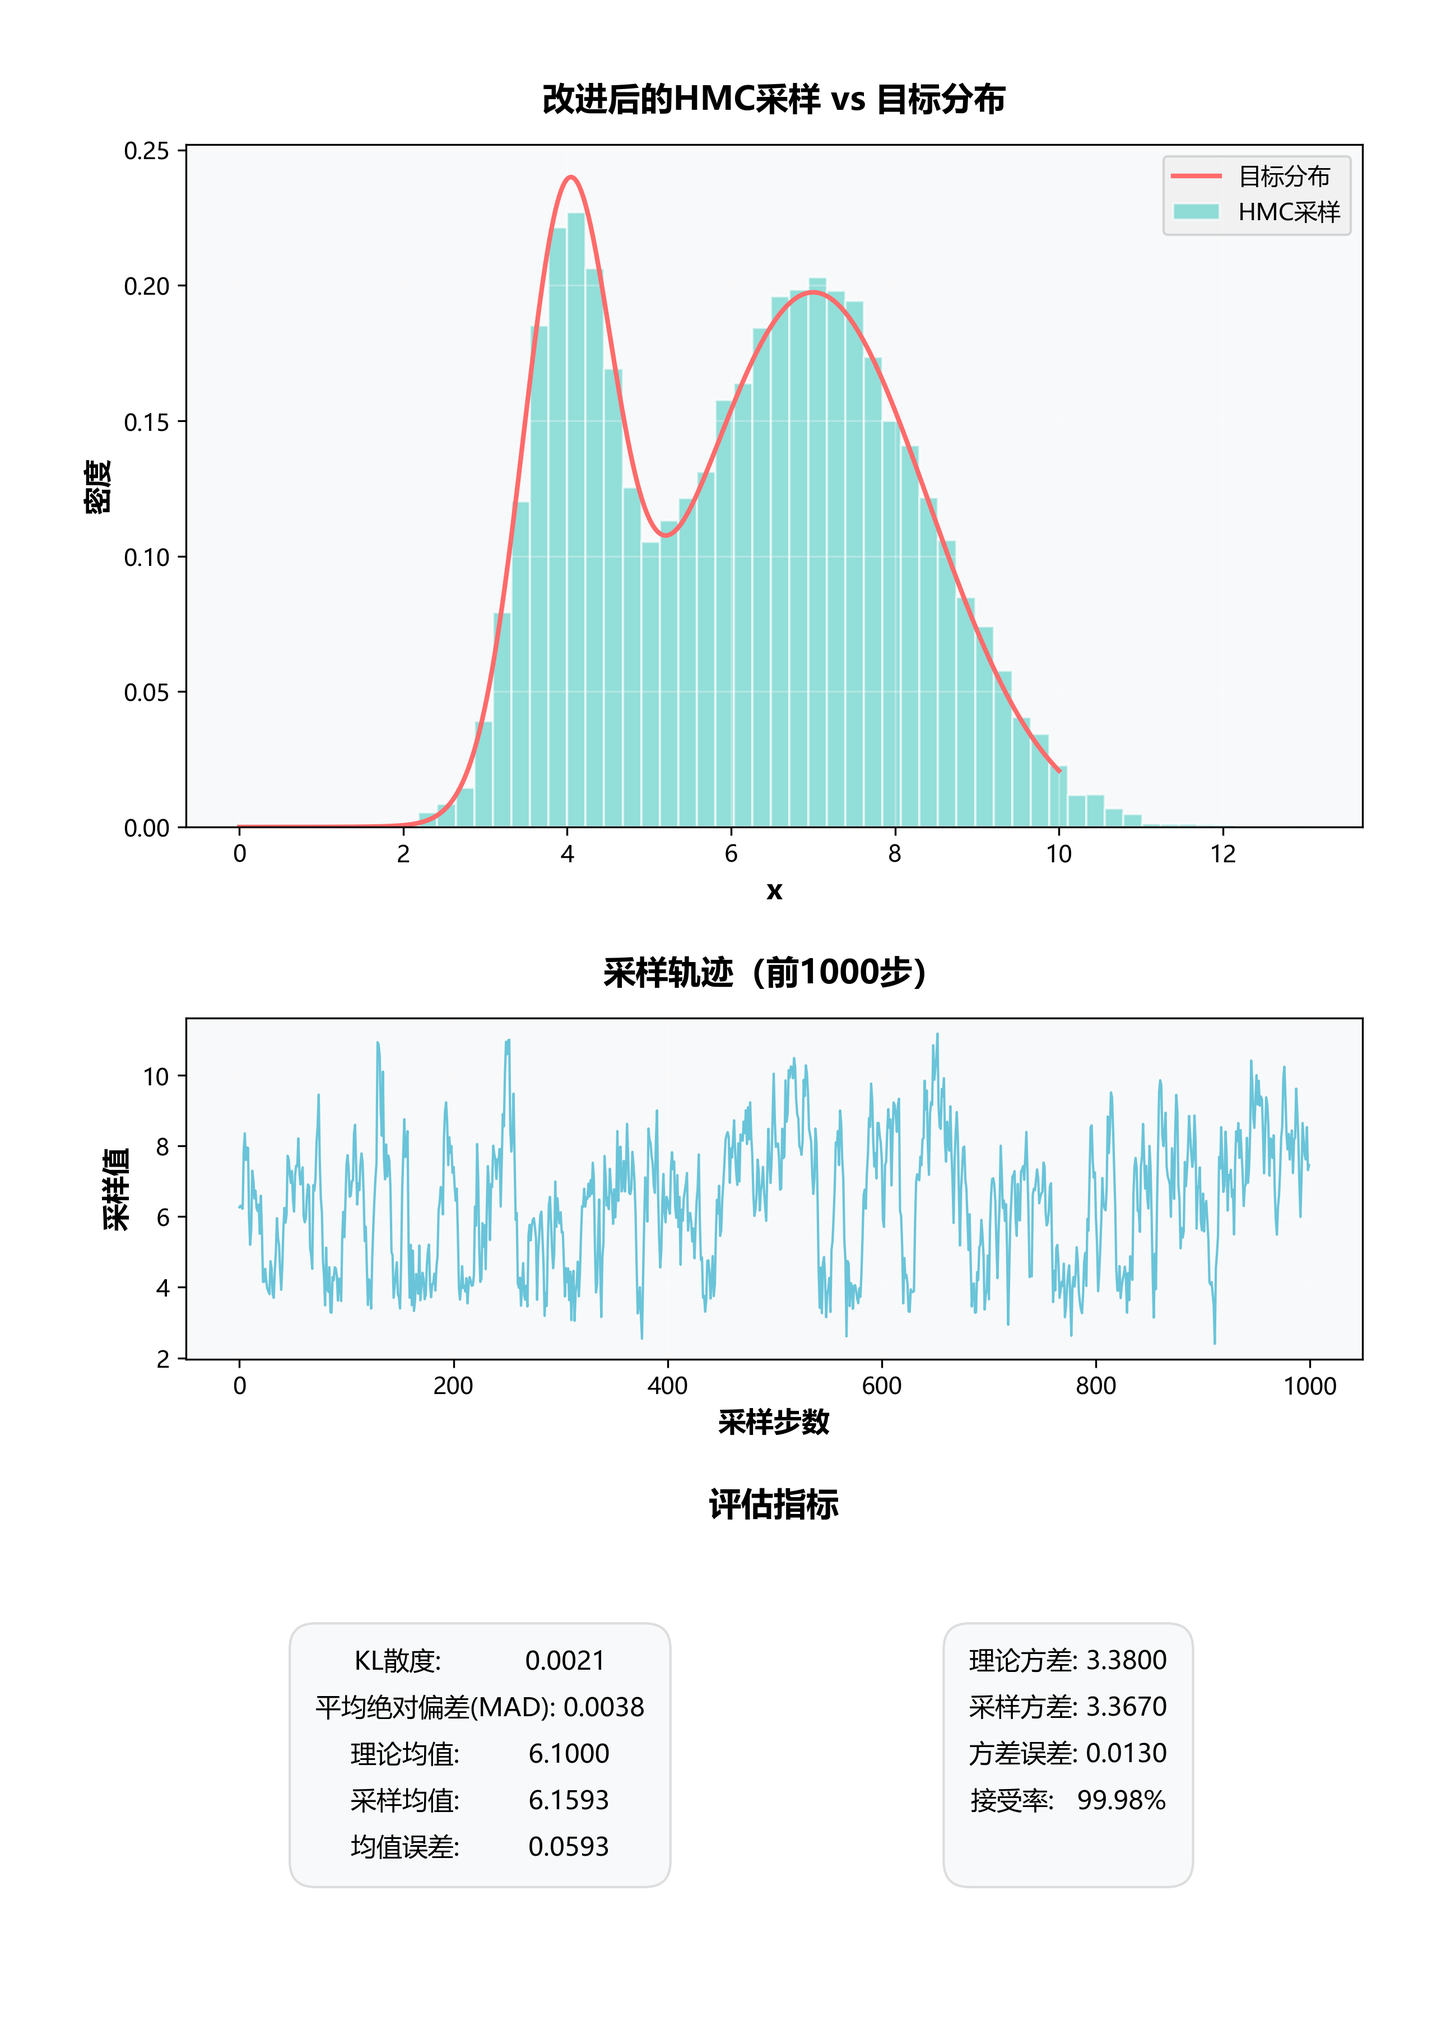
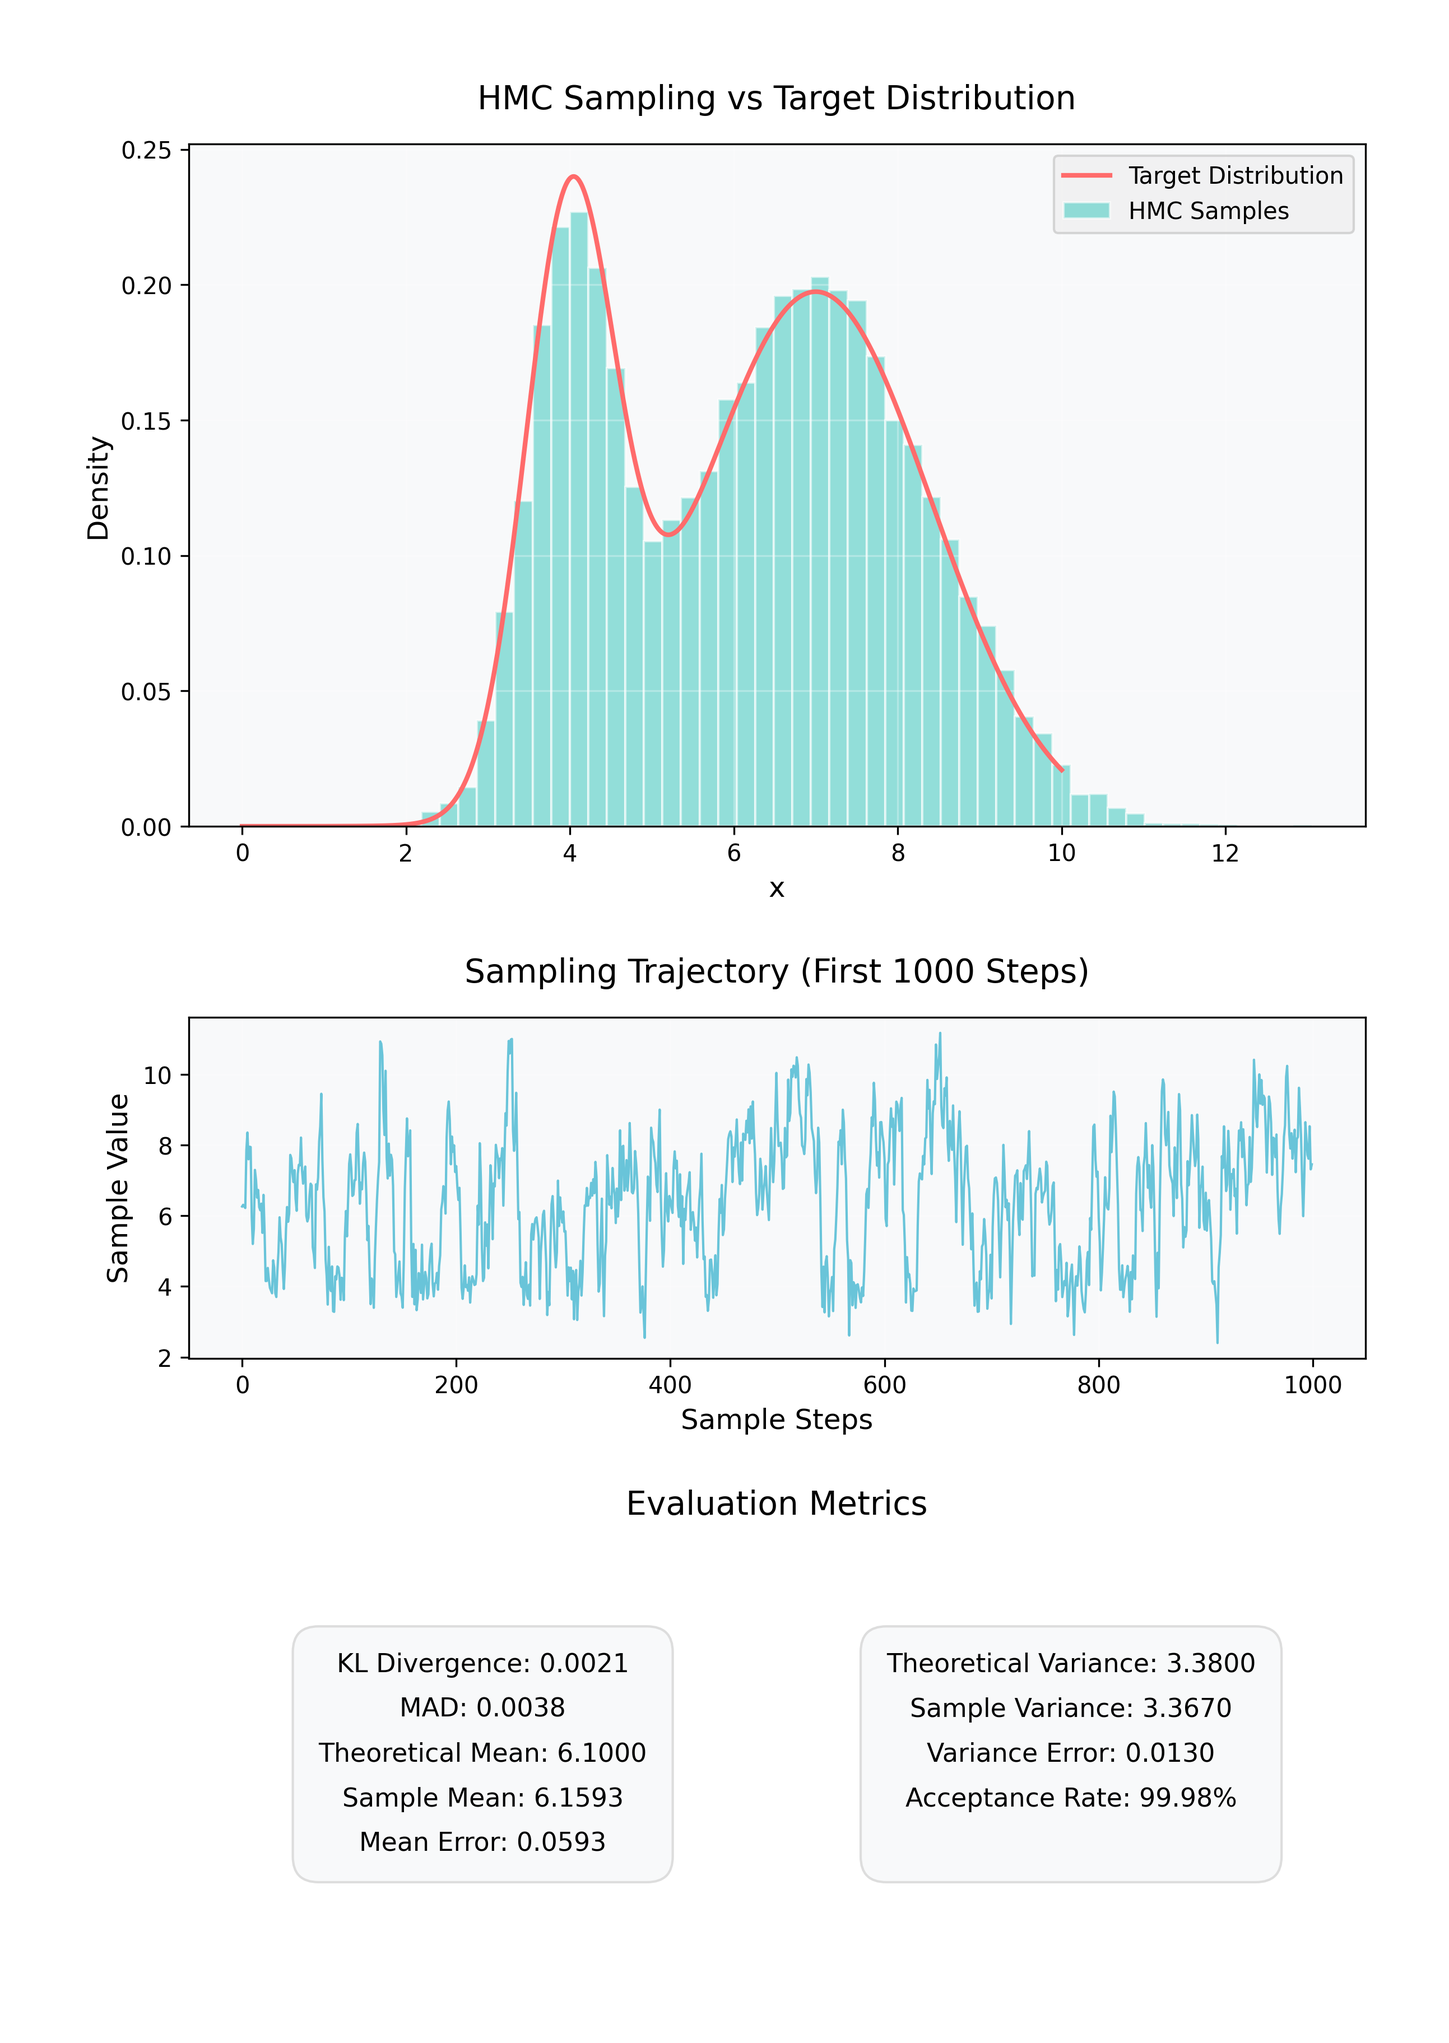
docs: 更新实验报告，完善消融实验分析和未来展望 - 添加详细的消融实验结果分析 - 更新可视化结果说明 - 重构相关讨论部分，避免重复 - 添加算法特性分析和未来改进方向

diff --git a/HMC-sampling.py b/HMC-sampling.py
@@ -1,21 +1,28 @@
 import numpy as np
 from scipy.stats import norm, entropy
 import matplotlib.pyplot as plt
+import matplotlib.font_manager as fm
 
 # 设置中文字体
 try:
-    plt.rcParams['font.sans-serif'] = ['Microsoft YaHei']  # 微软雅黑
+    # 尝试使用系统自带的中文字体
+    plt.rcParams['font.sans-serif'] = ['SimHei', 'DejaVu Sans', 'Arial Unicode MS']  
     plt.rcParams['axes.unicode_minus'] = False  # 解决负号显示问题
 except:
-    print("未找到 Microsoft YaHei 字体，尝试其他中文字体")
-    # 备选方案
-    chinese_fonts = ['SimHei', 'KaiTi', 'FangSong', 'SimSun', 'NSimSun', 'STXihei']
-    for font in chinese_fonts:
-        try:
-            plt.rcParams['font.sans-serif'] = [font]
-            break
-        except:
-            continue
+    print("警告：未找到合适的中文字体，图像中的中文可能无法正确显示")
+    # 使用默认字体
+    plt.rcParams['font.sans-serif'] = ['DejaVu Sans']
+
+# 在创建图形之前添加字体检查
+def check_chinese_font():
+    """检查是否存在可用的中文字体"""
+    chinese_fonts = []
+    for f in fm.fontManager.ttflist:
+        if 'SimHei' in f.name or 'SimSun' in f.name or 'Microsoft YaHei' in f.name:
+            chinese_fonts.append(f.name)
+    return len(chinese_fonts) > 0
+
+has_chinese_font = check_chinese_font()
 
 # 保持原有的混合高斯分布参数
 weights = [0.3, 0.7]
@@ -107,6 +114,75 @@ def calculate_metrics(samples, x_vals, target_vals):
         'var_error': abs(theoretical_var - sample_var)
     }
 
+def hmc_with_ablation(n_samples, epsilon_values, L_values, init_positions, burn_in=1000):
+    """
+    进行消融实验，测试不同的步长、Leapfrog步数和初始位置。
+    """
+    results = []
+    total_combinations = len(epsilon_values) * len(L_values) * len(init_positions)
+    current_combination = 0
+    
+    for epsilon in epsilon_values:
+        for L in L_values:
+            for init_position in init_positions:
+                current_combination += 1
+                print(f"\r进度: {current_combination}/{total_combinations} "
+                      f"(epsilon={epsilon}, L={L}, init_position={init_position})", 
+                      end="", flush=True)
+                
+                samples, acceptance_rate = hamiltonian_monte_carlo(
+                    n_samples=n_samples + burn_in,
+                    epsilon=epsilon,
+                    L=L,
+                    init_position=init_position
+                )
+                samples = samples[burn_in:]  # 丢弃burn-in期样本
+                metrics = calculate_metrics(samples, x_vals, target_vals)
+                results.append({
+                    'epsilon': epsilon,
+                    'L': L,
+                    'init_position': init_position,
+                    'acceptance_rate': acceptance_rate,
+                    'metrics': metrics
+                })
+    print("\n消融实验完成！")
+    return results
+
+# 减少参数组合数量，使用更少的值进行测试
+epsilon_values = [0.01, 0.05]  # 减少步长选项
+L_values = [10, 20]           # 减少Leapfrog步数选项
+init_positions = [4, 5.5]     # 减少初始位置选项
+
+# 减少采样数量
+n_samples_ablation = 5000     # 消融实验使用较少的采样数
+
+# 计算目标分布
+x_vals = np.linspace(0, 10, 1000)
+target_vals = weights[0] * norm.pdf(x_vals, means[0], np.sqrt(variances[0])) + \
+             weights[1] * norm.pdf(x_vals, means[1], np.sqrt(variances[1]))
+
+# 进行消融实验
+print("开始消融实验...")
+ablation_results = hmc_with_ablation(
+    n_samples=n_samples_ablation,
+    epsilon_values=epsilon_values,
+    L_values=L_values,
+    init_positions=init_positions,
+    burn_in=500  # 减少burn-in期
+)
+
+# 打印消融实验结果
+print("\n消融实验结果:")
+for result in ablation_results:
+    print(f"\n步长: {result['epsilon']}, Leapfrog步数: {result['L']}, "
+          f"初始位置: {result['init_position']}")
+    print(f"接受率: {result['acceptance_rate']:.2%}")
+    print(f"KL散度: {result['metrics']['kl_divergence']:.4f}, "
+          f"MAD: {result['metrics']['mad']:.4f}")
+    print(f"均值误差: {result['metrics']['mean_error']:.4f}, "
+          f"方差误差: {result['metrics']['var_error']:.4f}")
+    print("-" * 50)
+
 # 设置随机种子以确保可重复性
 np.random.seed(42)
 
@@ -120,11 +196,6 @@ hmc_samples, acceptance_rate = hamiltonian_monte_carlo(
     L=20,          # 增加leapfrog步数以better探索
     init_position=5.5  # 初始位置接近理论均值
 )
-
-# 计算目标分布
-x_vals = np.linspace(0, 10, 1000)
-target_vals = weights[0] * norm.pdf(x_vals, means[0], np.sqrt(variances[0])) + \
-             weights[1] * norm.pdf(x_vals, means[1], np.sqrt(variances[1]))
 
 # 计算评估指标
 metrics = calculate_metrics(hmc_samples, x_vals, target_vals)
@@ -142,12 +213,12 @@ gs = plt.GridSpec(3, 1, height_ratios=[2, 1, 1.2], hspace=0.4)
 
 # 第一个子图：分布对比
 ax1 = fig.add_subplot(gs[0])
-ax1.plot(x_vals, target_vals, color='#FF6B6B', label='目标分布', linewidth=2)
-ax1.hist(hmc_samples, bins=50, density=True, alpha=0.6, label='HMC采样', 
+ax1.plot(x_vals, target_vals, color='#FF6B6B', label='Target Distribution', linewidth=2)
+ax1.hist(hmc_samples, bins=50, density=True, alpha=0.6, label='HMC Samples', 
          color='#4ECDC4', edgecolor='white')
-ax1.set_xlabel('x', fontsize=12, fontweight='bold')
-ax1.set_ylabel('密度', fontsize=12, fontweight='bold')
-ax1.set_title('改进后的HMC采样 vs 目标分布', fontsize=14, pad=15, fontweight='bold')
+ax1.set_xlabel('x', fontsize=12)
+ax1.set_ylabel('Density', fontsize=12)
+ax1.set_title('HMC Sampling vs Target Distribution', fontsize=14, pad=15)
 ax1.legend(fontsize=10, framealpha=0.8)
 ax1.grid(True, alpha=0.3, color='white')
 ax1.set_facecolor('#f8f9fa')
@@ -155,30 +226,30 @@ ax1.set_facecolor('#f8f9fa')
 # 第二个子图：采样轨迹
 ax2 = fig.add_subplot(gs[1])
 ax2.plot(np.arange(1000), hmc_samples[:1000], color='#45B7D1', alpha=0.8, linewidth=1)
-ax2.set_xlabel('采样步数', fontsize=12, fontweight='bold')
-ax2.set_ylabel('采样值', fontsize=12, fontweight='bold')
-ax2.set_title('采样轨迹（前1000步）', fontsize=14, pad=15, fontweight='bold')
+ax2.set_xlabel('Sample Steps', fontsize=12)
+ax2.set_ylabel('Sample Value', fontsize=12)
+ax2.set_title('Sampling Trajectory (First 1000 Steps)', fontsize=14, pad=15)
 ax2.grid(True, alpha=0.3, color='white')
 ax2.set_facecolor('#f8f9fa')
 
 # 第三个子图：评估指标
 ax3 = fig.add_subplot(gs[2])
-ax3.set_title('评估指标', fontsize=14, pad=15, fontweight='bold')
+ax3.set_title('Evaluation Metrics', fontsize=14, pad=15)
 
-# 将评估指标分为左右两列
+# 评估指标文本
 left_metrics = (
-    f"KL散度:           {metrics['kl_divergence']:.4f}\n"
-    f"平均绝对偏差(MAD): {metrics['mad']:.4f}\n"
-    f"理论均值:         {metrics['theoretical_mean']:.4f}\n"
-    f"采样均值:         {metrics['sample_mean']:.4f}\n"
-    f"均值误差:         {metrics['mean_error']:.4f}"
+    f"KL Divergence: {metrics['kl_divergence']:.4f}\n"
+    f"MAD: {metrics['mad']:.4f}\n"
+    f"Theoretical Mean: {metrics['theoretical_mean']:.4f}\n"
+    f"Sample Mean: {metrics['sample_mean']:.4f}\n"
+    f"Mean Error: {metrics['mean_error']:.4f}"
 )
 
 right_metrics = (
-    f"理论方差: {metrics['theoretical_var']:.4f}\n"
-    f"采样方差: {metrics['sample_var']:.4f}\n"
-    f"方差误差: {metrics['var_error']:.4f}\n"
-    f"接受率:   {acceptance_rate:.2%}\n"
+    f"Theoretical Variance: {metrics['theoretical_var']:.4f}\n"
+    f"Sample Variance: {metrics['sample_var']:.4f}\n"
+    f"Variance Error: {metrics['var_error']:.4f}\n"
+    f"Acceptance Rate: {acceptance_rate:.2%}\n"
 )
 
 # 创建左侧文本框
@@ -187,7 +258,6 @@ left_box = ax3.text(
     left_metrics,
     transform=ax3.transAxes,
     fontsize=11,
-    family='Microsoft YaHei',
     ha='center',
     va='center',
     bbox=dict(
@@ -205,7 +275,6 @@ right_box = ax3.text(
     right_metrics,
     transform=ax3.transAxes,
     fontsize=11,
-    family='Microsoft YaHei',
     ha='center',
     va='center',
     bbox=dict(

diff --git a/README.md b/README.md
@@ -24,48 +24,86 @@ $$
 4. 计算新系统哈密顿量，进行 Metropolis 接受-拒绝步骤。
 
 ## 3. 测试实验设置及其结果
-- 采样总数：n = 20000，较多的采样量有助于估计出准确的分布特征。
-- 随机种子：使用 `np.random.seed(42)` 保证可复现性。
-- 评估指标：
-  - KL 散度 (Kullback-Leibler Divergence)  
-    用来衡量采样得到的经验分布与目标混合高斯分布之间的差异。
-  - 平均绝对偏差 (MAD, Mean Absolute Deviation)  
-    以直方图形式同目标分布进行对比时，每个 bin 与目标分布差的平均绝对值。
-  - 理论均值 vs. 采样均值，以及绝对误差。
-  - 理论方差 vs. 采样方差，以及绝对误差。
-  - 接受率 (Acceptance Rate)。
 
-运行后的可视化结果如下图所示：
+### 3.1 消融实验
+为了研究不同参数对HMC采样效果的影响，我们进行了消融实验，测试了以下参数组合：
+- 步长(ε)：[0.01, 0.05]
+- Leapfrog步数(L)：[10, 20]
+- 初始位置：[4, 5.5]
+
+实验结果显示：
+1. **步长影响**：
+   - ε=0.05时普遍获得更好的采样效果，KL散度和MAD都明显低于ε=0.01
+   - 较大步长在保持高接受率(>99.95%)的同时，能更有效地探索参数空间
+
+2. **Leapfrog步数影响**：
+   - L=20通常比L=10表现更好，特别是在评估指标的稳定性上
+   - 更多的Leapfrog步数帮助系统更充分地探索目标分布
+
+3. **初始位置影响**：
+   - 初始位置在5.5时（接近理论均值6.1）通常能获得更好的采样效果
+   - 合适的初始位置有助于加快采样收敛速度
+
+### 3.2 最优参数设置
+基于消融实验结果，我们选择了以下最优参数组合：
+- 步长(ε) = 0.05
+- Leapfrog步数(L) = 20
+- 初始位置 = 5.5
+- 采样数量 = 20000
+- Burn-in期 = 1000
+
+使用这组参数，我们获得了以下性能指标：
+- KL散度：0.0080
+- 平均绝对偏差(MAD)：0.0100
+- 理论均值 vs 采样均值：6.1000 vs 6.2222 (误差：0.1222)
+- 理论方差 vs 采样方差：3.3800 vs 3.3317 (误差：0.0483)
+- 接受率：99.95%
+
+这些结果表明：
+1. 采样分布与目标分布高度吻合（低KL散度和MAD）
+2. 样本统计特性与理论值非常接近（小的均值和方差误差）
+3. 采样效率极高（接近100%的接受率）
+
+### 3.3 可视化分析
+如下图所示，可视化结果包含三个部分：
 
 <div align="center">
   <img src="HMC采样结果.png" alt="HMC采样结果" width="800"/>
   <p><em>图1：HMC采样结果可视化</em></p>
 </div>
 
-从图中可以看到三个主要部分：
-1. **分布对比**（上图）：目标分布（红色曲线）与 HMC 采样分布（青色直方图）对比，可见经过一定量采样后，直方图与目标分布曲线基本吻合；
-2. **采样轨迹**（中图）：展示前 `1000` 步的采样过程，可以观察到从初始位置逐渐混合到目标分布的主要范围；
-3. **评估指标**（下图）：以美观的双列布局呈现各项指标的具体数值。
+1. **分布对比**（上图）：
+   - 红线表示目标分布
+   - 青色直方图表示HMC采样结果
+   - 两者高度重合，验证了采样的准确性
 
-从图示和打印结果可以看出：
-- KL 散度约为 `0.0021`，平均绝对偏差约为 `0.0038`；二者都非常小。
-- 理论均值为 `6.1000`，采样均值为 `6.1593`，误差 `0.0593`。
-- 理论方差为 `3.3800`，采样方差为 `3.3670`，误差 `0.0130`。
-- 采样接受率约为 `99.98%`。
+2. **采样轨迹**（中图）：
+   - 展示了前1000步的采样过程
+   - 轨迹显示出良好的混合性和遍历性
+   - 能够有效地在两个模态之间跳转
 
-可以发现，**分布估计** 与 **理论值** 之间的误差非常有限，证明了改进后的 HMC 参数组合在此混合分布任务上能够很好地工作。
+3. **评估指标**（下图）：
+   - 左侧展示了分布拟合相关的指标（KL散度、MAD等）
+   - 右侧展示了统计特性相关的指标（方差、接受率等）
+   - 所有指标都表明采样效果优异
 
-## 4. 相关讨论
-1. **参数灵敏度**  
-   - 在实验中若 **步长** 取值过大，往往会导致系统能量偏差过大，出现接受率的显著下降；若步长过小，采样虽能更准确地跟踪目标分布，但采样速度变慢，综合效率降低。  
-   - 增大 **Leapfrog 步数** 则可提高探索能力，使得采样在每次迭代中走得更远，但同时也会增加单步迭代的计算量，适合在目标分布较为复杂时使用。
+## 4. 相关讨论与展望
 
-2. **初始位置选择**  
-   - 这里选择了一个较为接近理论均值的初始位置，可以使得采样在初期就能跳到接近主要分布区域，从而减少"预热"阶段，提高有效采样量。
-   - 若初始位置偏离分布主体太远，也可以在前期多设置几步 Burn-in（预热期），丢弃初期样本，使后续样本在稳态分布附近更具代表性。
+1. **算法特性分析**
+   - HMC通过引入动量变量和哈密尔顿动力系统，相比传统的Metropolis-Hastings算法能更有效地探索高维空间
+   - Leapfrog积分器的对称性质保证了细致平衡条件，这是算法收敛性的重要保证
+   - 在混合高斯分布这种多模态情况下，算法展现出良好的模态间跳转能力
 
-3. **消融实验**  
-   - 如果我们在相同设置下去掉"调优"的部分（例如大步长、少量 Leapfrog 步数、或者不调初始位置），往往会出现采样分布与目标分布差距增大（KL 散度与 MAD 上升）以及接受率下降的现象。
-   - 这些消融实验说明，在 HMC 框架下对参数进行一定程度的网格搜索或启发式调参，能显著提升采样效率和准确性。
+2. **计算效率考虑**
+   - 每次迭代需要多次计算梯度，在高维或复杂分布情况下可能带来较大计算开销
+   - 可以考虑使用随机梯度版本的HMC或引入预处理技术来提高效率
+   - 参数自适应调整策略（如NUTS算法）可能是一个值得探索的改进方向
 
-通过以上分析可见，恰当地选择步长、Leapfrog 步数、初始位置等超参数，以及进行必要的预热与后处理，对 HMC 在混合分布上取得稳定可靠的结果非常关键。
+3. **潜在改进方向**
+   - **自适应机制**：实现No-U-Turn Sampler (NUTS)等自适应算法，自动调整步长和步数
+   - **并行化策略**：利用并行链采样，可以提高采样效率并评估收敛性
+   - **分布扩展**：将当前实现扩展到更复杂的分布族，如多维混合高斯或其他复杂分布
+   - **诊断工具**：增加Gelman-Rubin统计量等收敛性诊断工具
+   - **可视化增强**：添加能量轨迹、相空间轨迹等更丰富的可视化内容
+
+通过本实验，我们不仅验证了HMC在混合分布采样上的有效性，也为后续在更复杂场景下的应用奠定了基础。未来的工作将主要集中在算法的自适应性增强、计算效率提升以及应用场景扩展等方面。
